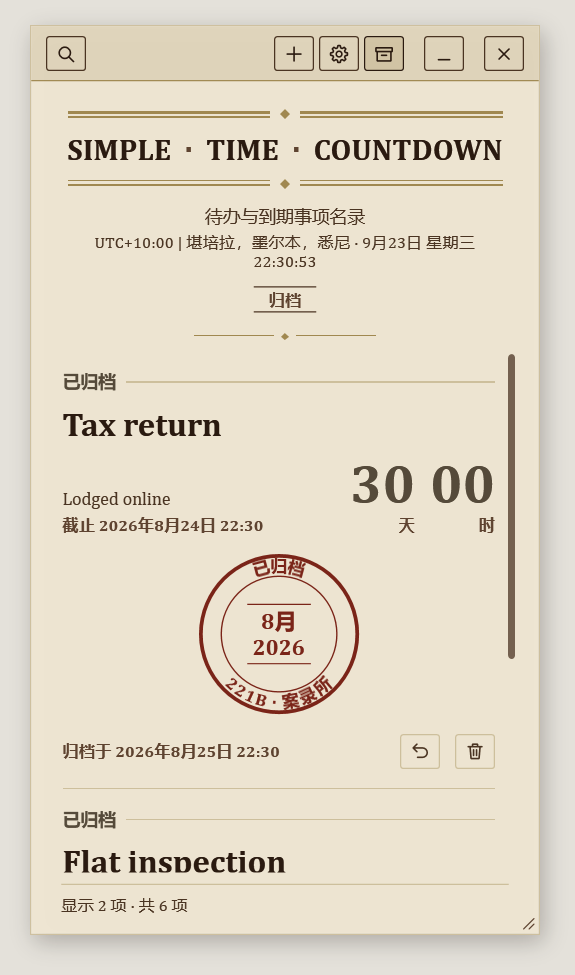
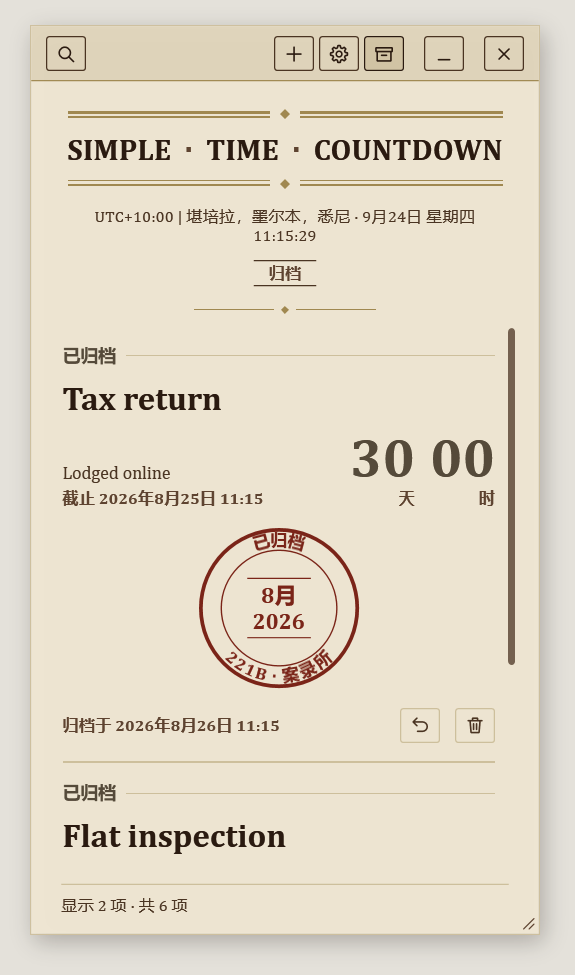
remove the subtitle on the head

diff --git a/src/SimpleTimeCountdown.App/MainWindow.xaml b/src/SimpleTimeCountdown.App/MainWindow.xaml
@@ -257,12 +257,8 @@
                         </Separator>
                     </StackPanel>
 
-                    <TextBlock Margin="0,12,0,0"
-                               Style="{StaticResource Text.Emphasis}"
-                               TextAlignment="Center"
-                               Text="{Binding [Main.Subtitle], Source={StaticResource Loc}}" />
                     <!-- Localized time-zone names run long, so the clock wraps rather than shrinking. -->
-                    <TextBlock Margin="0,4,0,0"
+                    <TextBlock Margin="0,12,0,0"
                                Style="{StaticResource Text.Caption}"
                                TextAlignment="Center"
                                Text="{Binding CurrentTimeDisplay}" />

diff --git a/src/SimpleTimeCountdown.App/Services/LocalizationService.cs b/src/SimpleTimeCountdown.App/Services/LocalizationService.cs
@@ -142,7 +142,6 @@ public sealed class LocalizationService : INotifyPropertyChanged
             ["Language.Chinese"] = "中文",
 
             // ===== Main panel =====
-            ["Main.Subtitle"] = "A REGISTER OF MATTERS PENDING & DUE",
             ["Main.Clock"] = "{0} · {1}",
             ["Format.Clock"] = "ddd d MMM, HH:mm:ss",
             ["Main.Search.Label"] = "Search countdowns",
@@ -329,7 +328,6 @@ public sealed class LocalizationService : INotifyPropertyChanged
             ["Language.Chinese"] = "中文",
 
             // ===== Main panel =====
-            ["Main.Subtitle"] = "待办与到期事项名录",
             ["Main.Clock"] = "{0} · {1}",
             ["Format.Clock"] = "M月d日 dddd HH:mm:ss",
             ["Main.Search.Label"] = "搜索倒计时",
